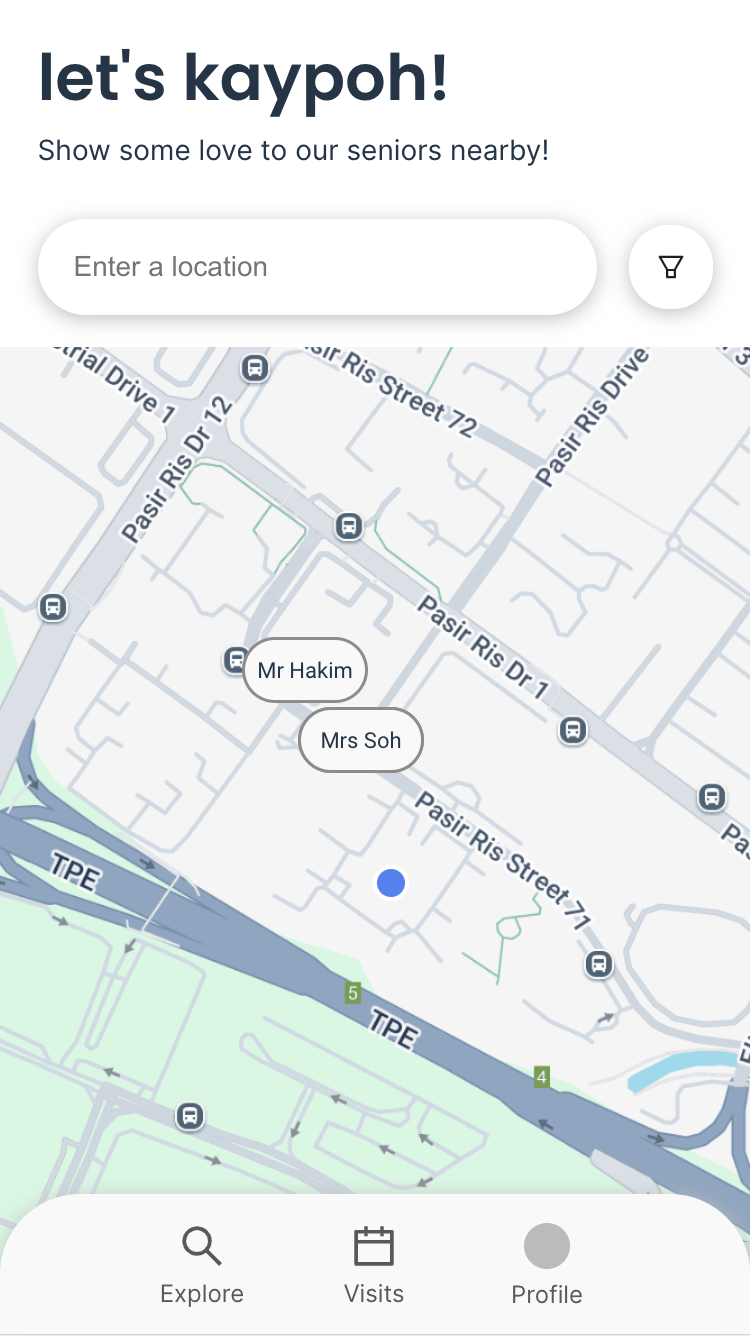
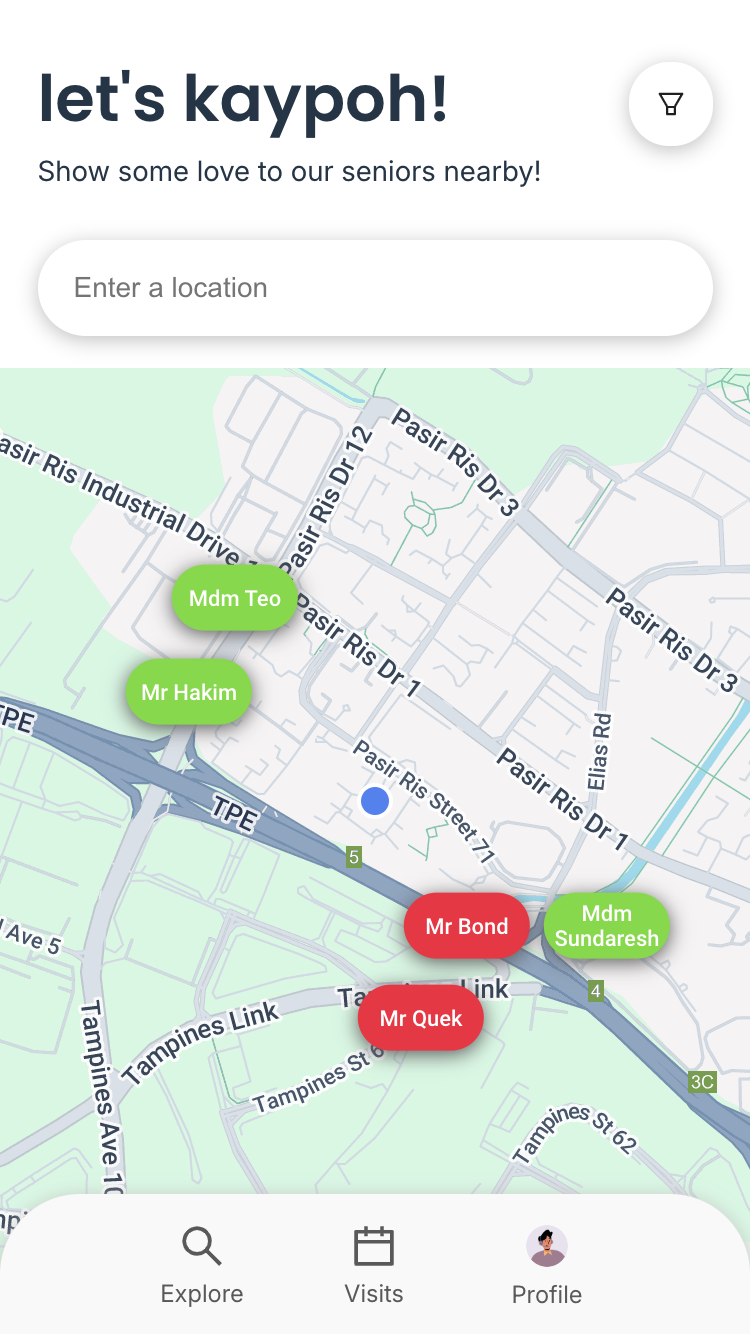
update screenshots, increase zoom, fix double scrollbar in entry

diff --git a/letskaypoh/src/components/Card/SeniorCard.tsx b/letskaypoh/src/components/Card/SeniorCard.tsx
@@ -108,6 +108,8 @@ export const SeniorCard: React.FC<Props> = (props) => {
     })
     const seniorAvatar = <Avatar style={{height: '30px', marginRight: '0.5rem'}} src={senior.gender.toLowerCase() == 'm' ? Grandpa : Granny}/>
 
+    const colorMarker = senior.daysLastVisited === "NEVER VISITED" || senior.daysLastVisited > 5 ? '#f9173d' : 
+                        senior.daysLastVisited > 3 ? '#e1a416' : '#43ab07'
     return (
         <div className={'card'} style={props.style}>
             <div className='visitInfo'>
@@ -130,10 +132,12 @@ export const SeniorCard: React.FC<Props> = (props) => {
 
                 <div className='visitRow'>
                     <CalendarOutlined style={{ marginRight: '0.5rem' }} />
-                    <span style={{ marginRight: '0.25rem' }}>
+                    <span style={{ marginRight: '0.25rem' }} >
                         Last Visited:
                     </span>
-                    {daysLastVisited}
+                    <span style={{color: colorMarker}}>
+                        {daysLastVisited}
+                    </span>
                 </div>
 
                 <div className='visitRow' style={{ marginBottom: '0.5rem' }}>

diff --git a/letskaypoh/src/pages/Entry/components/values.tsx b/letskaypoh/src/pages/Entry/components/values.tsx
@@ -14,7 +14,7 @@ const Features: React.FC<EntryBannerProps> = (props) => {
             title: 'High flexibility and convenience',
             icon: <EnvironmentOutlined />,
             children: (
-                <div>Volunteer with nearby seniors at a time of your choice. </div> 
+                <div>Volunteer with nearby seniors at a <b>time of your choice.</b> </div> 
             )
         },
         {
@@ -23,7 +23,7 @@ const Features: React.FC<EntryBannerProps> = (props) => {
             icon: <ZhihuOutlined />,
             children: (
                 <div>
-                    Find seniors who speak the same languages as you.
+                    Find seniors who speak the <b>same languages</b> as you.
                 </div>
             )
         },

diff --git a/letskaypoh/src/pages/Home/index.tsx b/letskaypoh/src/pages/Home/index.tsx
@@ -135,7 +135,7 @@ const Home = () => {
                         disableDefaultUI
                         gestureHandling={'greedy'}
                         mapId={'7c0e62f0200dd8aa'}
-                        defaultZoom={14}
+                        defaultZoom={15}
                         defaultCenter={{lat: 1.3198, lng: 103.8924}}
                     />
                 : <CustomMap

diff --git a/letskaypoh/src/pages/Home/components/Map/Map.tsx b/letskaypoh/src/pages/Home/components/Map/Map.tsx
@@ -72,7 +72,7 @@ const CustomMap: React.FC<Props> = ({ locations, defaultCenter, defaultZoom, sho
 			disableDefaultUI
 			gestureHandling={'greedy'}
 			mapId={'7c0e62f0200dd8aa'}
-			defaultZoom={defaultZoom ?? 14}
+			defaultZoom={defaultZoom ?? 15}
 			defaultCenter={defaultCenter}
 			onClick={() => setCloseAllInfoWindows(true)}
 		>

diff --git a/letskaypoh/src/pages/Entry/styles.css b/letskaypoh/src/pages/Entry/styles.css
@@ -6,7 +6,6 @@
     min-height: 100vh;
     height: 100%;
     width: 100vw;
-    overflow-y: scroll;
   
     @media (min-width: 1000px) {
       flex-direction: row;
